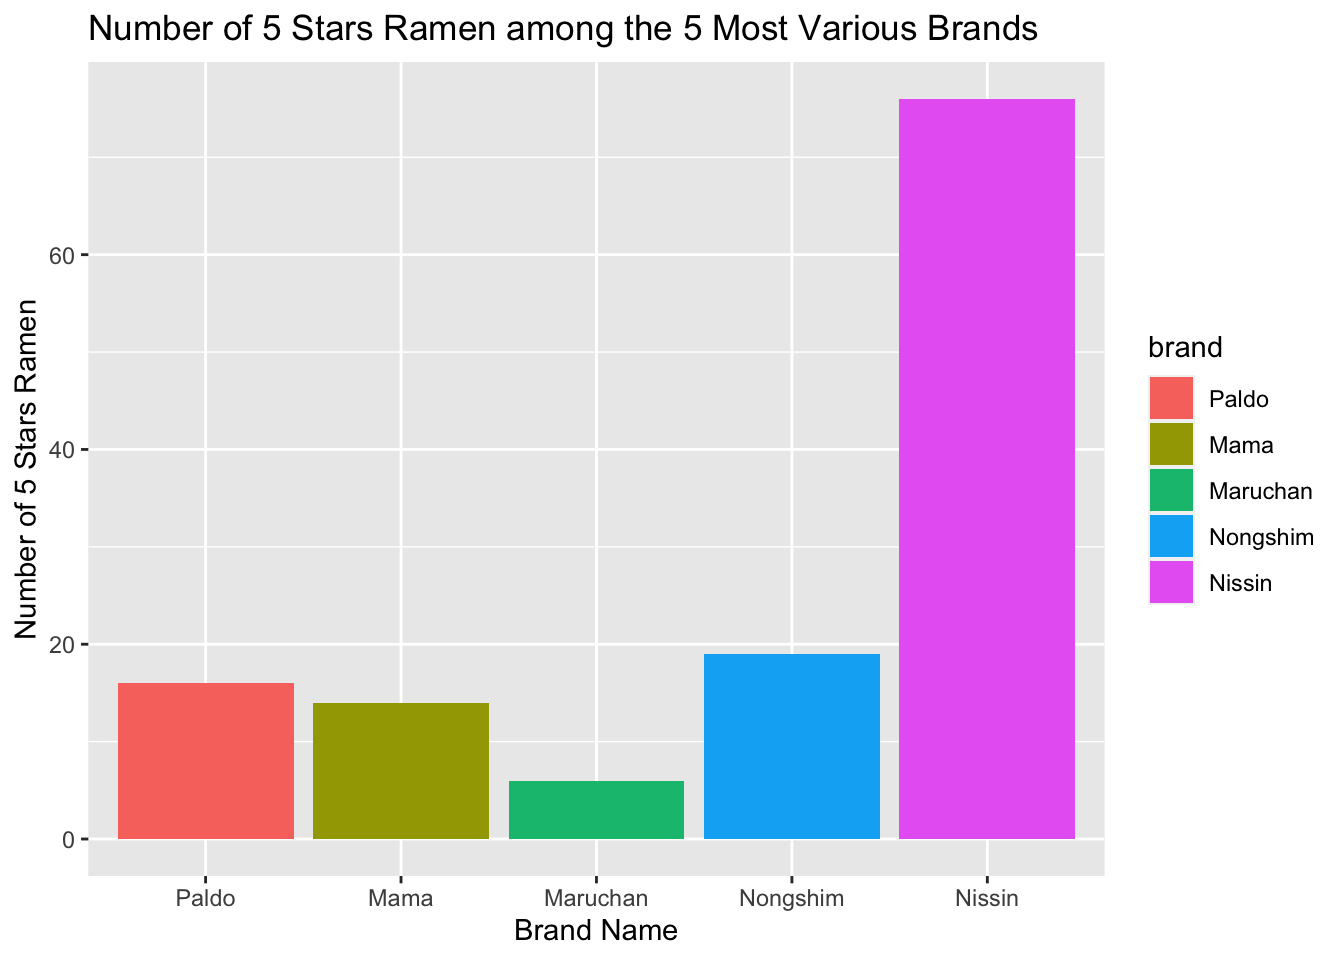
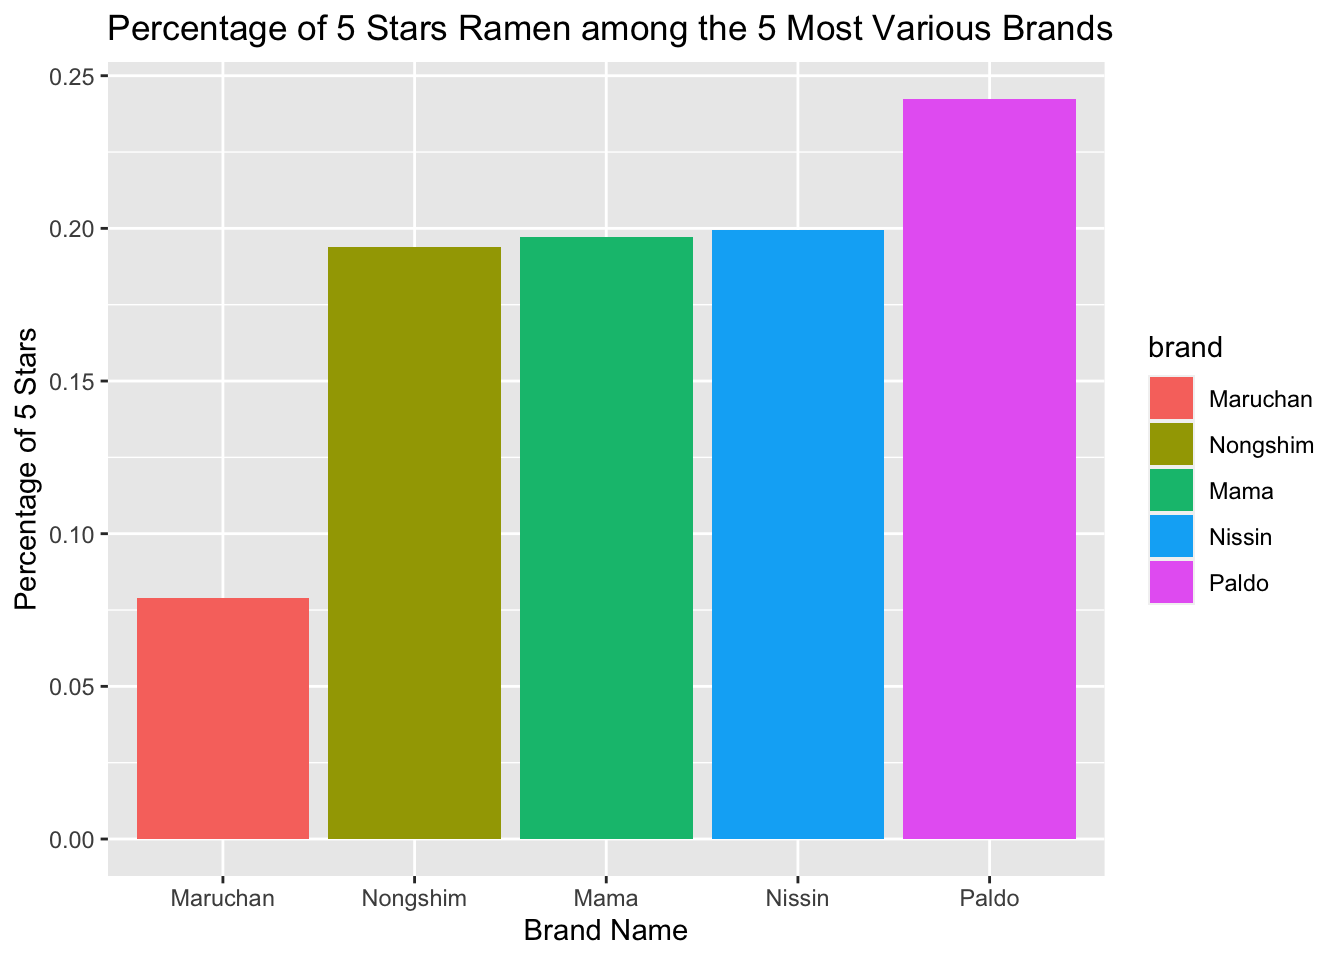
change to percentage plot and add report content into about page.

diff --git a/rating_by_brand.html b/rating_by_brand.html
@@ -403,8 +403,8 @@ div.tocify {
 </div>
 <div id="most-various-brands" class="section level2">
 <h2>5 Most Various Brands</h2>
-<div id="htmlwidget-1bcf06b8619b65fe8e17" style="width:672px;height:480px;" class="plotly html-widget"></div>
-<script type="application/json" data-for="htmlwidget-1bcf06b8619b65fe8e17">{"x":{"visdat":{"2fb56bad06df":["function () ","plotlyVisDat"]},"cur_data":"2fb56bad06df","attrs":{"2fb56bad06df":{"x":{},"y":{},"text":{},"textposition":"auto","marker":{"color":"viridis","line":{"color":"viridis","width":1.5}},"color":{},"alpha_stroke":1,"sizes":[10,100],"spans":[1,20],"type":"bar"}},"layout":{"margin":{"b":40,"l":60,"t":25,"r":10},"title":"5 Ramen Brands with the Widest Varieties","xaxis":{"domain":[0,1],"automargin":true,"title":"Brand Name","type":"category","categoryorder":"array","categoryarray":["Paldo","Mama","Maruchan","Nongshim","Nissin","1 To 3 Noodles","7 Select","7 Select/Nissin","A-One","A-Sha Dry Noodle","A1","ABC","Acecook","Adabi","Ah Lai","Ajinatori","Amianda","Amino","Annie Chun's","Aroi","Asia Gold","Asian Thai Foods","Authentically Asian","Azami","Baijia","Baixiang Noodles","Baltix","Bamee","Batchelors","Binh Tay","Bon Go Jang","Bonasia","Boss","Campbell's","Cap Atoom Bulan","CarJEN","Chaudhary's Wai Wai","Chencun","Chering Chang","Chewy","Chikara","China Best","Ching's Secret","Chorip Dong","ChoripDong","Choumama","Chuan Wei Wang","Cintan","CJ CheilJedang","Conimex","Crystal Noodle","Curry Prince","Daddy","Daifuku","Daikoku","Daraz","Deshome","Doll","Dongwon","Dr. McDougall's","Dragonfly","Dream Kitchen","E-mi","E-Zee","Eat & Go","Econsave","Emart","Fantastic","Farmer's Heart","Fashion Food","Fashion Foods","FMF","Foodmon","Forest Noodles","Fortune","Four Seas","Fu Chang Chinese Noodle Company","Fuji Mengyo","Fujiwara","Fuku","GaGa","Gau Do","Gefen","GGE","Global Inspiration","Goku Uma","Goku-Uma","Golden Mie","Golden Wheat","Golden Wonder","Gomex","Good Tto Leu Foods","Great Value","GreeNoodle","GS25","Guava Story","Haioreum","Han's South Korea","Hankow","Hao Way","Happy Cook","Happy Family","Healtimie","Hi-Myon","Higashi","Higashimaru","HoMyeonDang","Hosoonyi","Hsin Tung Yang","Hua Feng","Hua Feng Noodle Expert","Ibumie","IbuRamen","ICA","Ikeda Shoku","iMee","Indomie","iNoodle","Ishimaru","Itomen","Itsuki","J.J.","Jackpot Teriyaki","JFC","Jingqi","JML","Just Way","Kabuto Noodles","Kailo","Kamfen","Kang Shi Fu","Katoz","Kiki Noodle","Kim Ve Wong","Kim's Bowl","Kimura","Kin-Dee","Knorr","Ko-Lee","Koh Thai","Koka","KOKA","Komforte Chockolates","Koyo","Kumamoto","Kuriki","La Fonte","La Moderna","Lee Fah Mee","Lele","Liang Cheng Mai","Lipton","Lishan","Lishan Food Manufacturing","Little Cook","Liu Quan","Long Jun Hang","Long Kow","Lotus Foods","Love Cook","Lucky Me!","Maggi","Maitri","MAMA","Mama Pat's","Mamee","Marutai","Master Kong","Mee Jang","Men-Sunaoshi","Menraku","Mexi-Ramen","Mi E-Zee","Mi Sedaap","Mie Sedaap","Migawon","Miliket","Miracle Noodle","Mitoku","Mom's Dry Noodle","Morre","Mr. Lee's Noodles","Mr. Noodles","Mr. Udon","Mug Shot","Mum Ngon","MyKuali","Myojo","MyOri","Nagao Noodle","Nagatanien","Nakaya Shouten","Nan Hsing","Nan Jie Cun","Nanyang Chef","New Touch","New Way","No Name","Noah Foods","Noodle Time","Nyor Nyar","O Sung","Ogasawara","Ohsung","Omachi","One Dish Asia","Oni Hot Pot","ORee Garden","Osaka Ramen","Ottogi","Oyatsu","Paldo Vina","Pama","Pamana","Papa","Patanjali","Payless","Peyang","Pirkka","Plats Du Chef","Pop Bihun","Pot Noodle","Pran","Premiere","President","President Rice","Prima","Prima Taste","Pringles","Pulmuone","Q","Qin Zong","Quickchow","Rhee Bros Assi","Right Foods","Ripe'n'Dry","Rocket Brand","Roland","Royal Umbrella","Ruski","S&S","Sahmyook","Saigon Ve Wong","Sainsbury's","Saji","Sakura Noodle","Sakurai","Sakurai Foods","Salam Mie","Samurai Ramen","Samyang","Samyang Foods","Sanpo","Sanrio","Sanyo Foods","Sao Tao","Sapporo Ichiban","Sarimi","Sau Tao","Sawadee","Sempio","Seven & I","Seven-Eleven","Shan","Shirakiku","Sichuan Baijia","Sichuan Guangyou","Singa-Me","Six Fortune","Smack","Snapdragon","Sokensha","Song Hak","Souper","Springlife","Star Anise Foods","Sugakiya Foods","Suimin","Sun Noodle","Sunlee","Sunlight","Sunny Maid","Super","Super Bihun","SuperMi","Sura","Sutah","Tablemark","Takamori","Takamori Kosan","Tao Kae Noi","Tasty Bite","Tayho","Ten-In","Teriyaki Time","Tesco","Thai Chef","Thai Choice","Thai Kitchen","Thai Pavilion","Thai Smile","The Bridge","The Kitchen Food","The Ramen Rater Select","Thien Houng Foods","Tiger","Tiger Tiger","Tokachimen Koubou","Tokushima Seifun","Tokyo Noodle","Torishi","Tradition","TRDP","Trident","Tropicana Slim","Tseng Noodles","TTL","Tung-I","Uncle Sun","Uni-President","Unif","Unif / Tung-I","Unif Tung-I","Unif-100","United","Unox","Unzen","Urban Noodle","US Canning","Ve Wong","Vedan","Vifon","Vina Acecook","Vit's","Wai Wai","Wang","Weh Lih","Wei Chuan","Wei Lih","Wei Wei","Westbrae","Western Family","World O' Noodle","Wu Mu","Wu-Mu","Wugudaochang","Xiao Ban Mian","Xiuhe","Yamachan","Yamadai","Yamamori","Yamamoto","Yum Yum","Yum-Mie","Zow Zow"]},"yaxis":{"domain":[0,1],"automargin":true,"title":"Number of Varieties"},"hovermode":"closest","showlegend":true},"source":"A","config":{"showSendToCloud":false},"data":[{"x":["Paldo"],"y":[66],"text":66,"textposition":"auto","marker":{"color":"viridis","line":{"color":"viridis","width":1.5}},"type":"bar","name":"Paldo","textfont":{"color":"rgba(102,194,165,1)"},"error_y":{"color":"rgba(102,194,165,1)"},"error_x":{"color":"rgba(102,194,165,1)"},"xaxis":"x","yaxis":"y","frame":null},{"x":["Mama"],"y":[71],"text":71,"textposition":"auto","marker":{"color":"viridis","line":{"color":"viridis","width":1.5}},"type":"bar","name":"Mama","textfont":{"color":"rgba(107,193,164,1)"},"error_y":{"color":"rgba(107,193,164,1)"},"error_x":{"color":"rgba(107,193,164,1)"},"xaxis":"x","yaxis":"y","frame":null},{"x":["Maruchan"],"y":[76],"text":76,"textposition":"auto","marker":{"color":"viridis","line":{"color":"viridis","width":1.5}},"type":"bar","name":"Maruchan","textfont":{"color":"rgba(113,192,162,1)"},"error_y":{"color":"rgba(113,192,162,1)"},"error_x":{"color":"rgba(113,192,162,1)"},"xaxis":"x","yaxis":"y","frame":null},{"x":["Nongshim"],"y":[98],"text":98,"textposition":"auto","marker":{"color":"viridis","line":{"color":"viridis","width":1.5}},"type":"bar","name":"Nongshim","textfont":{"color":"rgba(117,192,161,1)"},"error_y":{"color":"rgba(117,192,161,1)"},"error_x":{"color":"rgba(117,192,161,1)"},"xaxis":"x","yaxis":"y","frame":null},{"x":["Nissin"],"y":[381],"text":381,"textposition":"auto","marker":{"color":"viridis","line":{"color":"viridis","width":1.5}},"type":"bar","name":"Nissin","textfont":{"color":"rgba(122,191,160,1)"},"error_y":{"color":"rgba(122,191,160,1)"},"error_x":{"color":"rgba(122,191,160,1)"},"xaxis":"x","yaxis":"y","frame":null}],"highlight":{"on":"plotly_click","persistent":false,"dynamic":false,"selectize":false,"opacityDim":0.2,"selected":{"opacity":1},"debounce":0},"shinyEvents":["plotly_hover","plotly_click","plotly_selected","plotly_relayout","plotly_brushed","plotly_brushing","plotly_clickannotation","plotly_doubleclick","plotly_deselect","plotly_afterplot","plotly_sunburstclick"],"base_url":"https://plot.ly"},"evals":[],"jsHooks":[]}</script>
+<div id="htmlwidget-afdfee05baa4724f611e" style="width:672px;height:480px;" class="plotly html-widget"></div>
+<script type="application/json" data-for="htmlwidget-afdfee05baa4724f611e">{"x":{"visdat":{"12611328e0ecf":["function () ","plotlyVisDat"]},"cur_data":"12611328e0ecf","attrs":{"12611328e0ecf":{"x":{},"y":{},"text":{},"textposition":"auto","marker":{"color":"viridis","line":{"color":"white","width":1.5}},"color":{},"alpha_stroke":1,"sizes":[10,100],"spans":[1,20],"type":"bar"}},"layout":{"margin":{"b":40,"l":60,"t":25,"r":10},"title":"5 Ramen Brands with the Widest Varieties","xaxis":{"domain":[0,1],"automargin":true,"title":"Brand Name","type":"category","categoryorder":"array","categoryarray":["Paldo","Mama","Maruchan","Nongshim","Nissin","1 To 3 Noodles","7 Select","7 Select/Nissin","A-One","A-Sha Dry Noodle","A1","ABC","Acecook","Adabi","Ah Lai","Ajinatori","Amianda","Amino","Annie Chun's","Aroi","Asia Gold","Asian Thai Foods","Authentically Asian","Azami","Baijia","Baixiang Noodles","Baltix","Bamee","Batchelors","Binh Tay","Bon Go Jang","Bonasia","Boss","Campbell's","Cap Atoom Bulan","CarJEN","Chaudhary's Wai Wai","Chencun","Chering Chang","Chewy","Chikara","China Best","Ching's Secret","Chorip Dong","ChoripDong","Choumama","Chuan Wei Wang","Cintan","CJ CheilJedang","Conimex","Crystal Noodle","Curry Prince","Daddy","Daifuku","Daikoku","Daraz","Deshome","Doll","Dongwon","Dr. McDougall's","Dragonfly","Dream Kitchen","E-mi","E-Zee","Eat & Go","Econsave","Emart","Fantastic","Farmer's Heart","Fashion Food","Fashion Foods","FMF","Foodmon","Forest Noodles","Fortune","Four Seas","Fu Chang Chinese Noodle Company","Fuji Mengyo","Fujiwara","Fuku","GaGa","Gau Do","Gefen","GGE","Global Inspiration","Goku Uma","Goku-Uma","Golden Mie","Golden Wheat","Golden Wonder","Gomex","Good Tto Leu Foods","Great Value","GreeNoodle","GS25","Guava Story","Haioreum","Han's South Korea","Hankow","Hao Way","Happy Cook","Happy Family","Healtimie","Hi-Myon","Higashi","Higashimaru","HoMyeonDang","Hosoonyi","Hsin Tung Yang","Hua Feng","Hua Feng Noodle Expert","Ibumie","IbuRamen","ICA","Ikeda Shoku","iMee","Indomie","iNoodle","Ishimaru","Itomen","Itsuki","J.J.","Jackpot Teriyaki","JFC","Jingqi","JML","Just Way","Kabuto Noodles","Kailo","Kamfen","Kang Shi Fu","Katoz","Kiki Noodle","Kim Ve Wong","Kim's Bowl","Kimura","Kin-Dee","Knorr","Ko-Lee","Koh Thai","Koka","KOKA","Komforte Chockolates","Koyo","Kumamoto","Kuriki","La Fonte","La Moderna","Lee Fah Mee","Lele","Liang Cheng Mai","Lipton","Lishan","Lishan Food Manufacturing","Little Cook","Liu Quan","Long Jun Hang","Long Kow","Lotus Foods","Love Cook","Lucky Me!","Maggi","Maitri","MAMA","Mama Pat's","Mamee","Marutai","Master Kong","Mee Jang","Men-Sunaoshi","Menraku","Mexi-Ramen","Mi E-Zee","Mi Sedaap","Mie Sedaap","Migawon","Miliket","Miracle Noodle","Mitoku","Mom's Dry Noodle","Morre","Mr. Lee's Noodles","Mr. Noodles","Mr. Udon","Mug Shot","Mum Ngon","MyKuali","Myojo","MyOri","Nagao Noodle","Nagatanien","Nakaya Shouten","Nan Hsing","Nan Jie Cun","Nanyang Chef","New Touch","New Way","No Name","Noah Foods","Noodle Time","Nyor Nyar","O Sung","Ogasawara","Ohsung","Omachi","One Dish Asia","Oni Hot Pot","ORee Garden","Osaka Ramen","Ottogi","Oyatsu","Paldo Vina","Pama","Pamana","Papa","Patanjali","Payless","Peyang","Pirkka","Plats Du Chef","Pop Bihun","Pot Noodle","Pran","Premiere","President","President Rice","Prima","Prima Taste","Pringles","Pulmuone","Q","Qin Zong","Quickchow","Rhee Bros Assi","Right Foods","Ripe'n'Dry","Rocket Brand","Roland","Royal Umbrella","Ruski","S&S","Sahmyook","Saigon Ve Wong","Sainsbury's","Saji","Sakura Noodle","Sakurai","Sakurai Foods","Salam Mie","Samurai Ramen","Samyang","Samyang Foods","Sanpo","Sanrio","Sanyo Foods","Sao Tao","Sapporo Ichiban","Sarimi","Sau Tao","Sawadee","Sempio","Seven & I","Seven-Eleven","Shan","Shirakiku","Sichuan Baijia","Sichuan Guangyou","Singa-Me","Six Fortune","Smack","Snapdragon","Sokensha","Song Hak","Souper","Springlife","Star Anise Foods","Sugakiya Foods","Suimin","Sun Noodle","Sunlee","Sunlight","Sunny Maid","Super","Super Bihun","SuperMi","Sura","Sutah","Tablemark","Takamori","Takamori Kosan","Tao Kae Noi","Tasty Bite","Tayho","Ten-In","Teriyaki Time","Tesco","Thai Chef","Thai Choice","Thai Kitchen","Thai Pavilion","Thai Smile","The Bridge","The Kitchen Food","The Ramen Rater Select","Thien Houng Foods","Tiger","Tiger Tiger","Tokachimen Koubou","Tokushima Seifun","Tokyo Noodle","Torishi","Tradition","TRDP","Trident","Tropicana Slim","Tseng Noodles","TTL","Tung-I","Uncle Sun","Uni-President","Unif","Unif / Tung-I","Unif Tung-I","Unif-100","United","Unox","Unzen","Urban Noodle","US Canning","Ve Wong","Vedan","Vifon","Vina Acecook","Vit's","Wai Wai","Wang","Weh Lih","Wei Chuan","Wei Lih","Wei Wei","Westbrae","Western Family","World O' Noodle","Wu Mu","Wu-Mu","Wugudaochang","Xiao Ban Mian","Xiuhe","Yamachan","Yamadai","Yamamori","Yamamoto","Yum Yum","Yum-Mie","Zow Zow"]},"yaxis":{"domain":[0,1],"automargin":true,"title":"Number of Varieties"},"hovermode":"closest","showlegend":true},"source":"A","config":{"showSendToCloud":false},"data":[{"x":["Paldo"],"y":[66],"text":66,"textposition":"auto","marker":{"color":"viridis","line":{"color":"white","width":1.5}},"type":"bar","name":"Paldo","textfont":{"color":"rgba(102,194,165,1)"},"error_y":{"color":"rgba(102,194,165,1)"},"error_x":{"color":"rgba(102,194,165,1)"},"xaxis":"x","yaxis":"y","frame":null},{"x":["Mama"],"y":[71],"text":71,"textposition":"auto","marker":{"color":"viridis","line":{"color":"white","width":1.5}},"type":"bar","name":"Mama","textfont":{"color":"rgba(107,193,164,1)"},"error_y":{"color":"rgba(107,193,164,1)"},"error_x":{"color":"rgba(107,193,164,1)"},"xaxis":"x","yaxis":"y","frame":null},{"x":["Maruchan"],"y":[76],"text":76,"textposition":"auto","marker":{"color":"viridis","line":{"color":"white","width":1.5}},"type":"bar","name":"Maruchan","textfont":{"color":"rgba(113,192,162,1)"},"error_y":{"color":"rgba(113,192,162,1)"},"error_x":{"color":"rgba(113,192,162,1)"},"xaxis":"x","yaxis":"y","frame":null},{"x":["Nongshim"],"y":[98],"text":98,"textposition":"auto","marker":{"color":"viridis","line":{"color":"white","width":1.5}},"type":"bar","name":"Nongshim","textfont":{"color":"rgba(117,192,161,1)"},"error_y":{"color":"rgba(117,192,161,1)"},"error_x":{"color":"rgba(117,192,161,1)"},"xaxis":"x","yaxis":"y","frame":null},{"x":["Nissin"],"y":[381],"text":381,"textposition":"auto","marker":{"color":"viridis","line":{"color":"white","width":1.5}},"type":"bar","name":"Nissin","textfont":{"color":"rgba(122,191,160,1)"},"error_y":{"color":"rgba(122,191,160,1)"},"error_x":{"color":"rgba(122,191,160,1)"},"xaxis":"x","yaxis":"y","frame":null}],"highlight":{"on":"plotly_click","persistent":false,"dynamic":false,"selectize":false,"opacityDim":0.2,"selected":{"opacity":1},"debounce":0},"shinyEvents":["plotly_hover","plotly_click","plotly_selected","plotly_relayout","plotly_brushed","plotly_brushing","plotly_clickannotation","plotly_doubleclick","plotly_deselect","plotly_afterplot","plotly_sunburstclick"],"base_url":"https://plot.ly"},"evals":[],"jsHooks":[]}</script>
 <p>As shown in the above plot, <em>Nissin</em> is the winner with 381 types of ramen. The 2nd to 5th brands are <em>Nongshim</em>, <em>Maruchan</em>, <em>Mama</em>, and <em>Paldo</em>. Each of them has more than 60 but less than 100 types of ramen.</p>
 <div id="distribution-of-rating-stars" class="section level3">
 <h3>Distribution of Rating Stars</h3>
@@ -412,8 +412,12 @@ div.tocify {
 <p>The above boxplots show that the median rating stars of <em>Nissin</em>, <em>Nongshim</em>, and <em>Paldo</em> are close to <code>4 stars</code>. The median of <em>Mama</em> and <em>Maruchan</em> are lower than <code>4 stars</code>. 75% of products of these 5 brands were rated above or equal to <code>3 Stars</code>.</p>
 <p>Only <em>Paldo</em> and <em>Maruchan</em> have some ramen products were rated as <code>0 Stars</code>.</p>
 <p><img src="rating_by_brand_files/figure-html/unnamed-chunk-4-1.png" width="672" /></p>
-<p>All of these 5 brands have at least one ramen was rated as <code>5 Stars</code>. <em>Nissin</em> also has the largest number of ramen rated as <em>5 Stars</em>.</p>
+<p>All of these 5 brands have at least one ramen was rated as <code>5 Stars</code>. <em>Paldo</em> has the highest percentage of ramen rated as <code>5 Stars</code>, while <em>Maruchan</em> has the lowest percentage of ramen rated as <code>5 Stars</code>.</p>
 </div>
+</div>
+<div id="conclusion" class="section level2">
+<h2>Conclusion</h2>
+<p>There are 355 ramen brands in this dataset. <em>Nissin</em>, <em>Nongshim</em>, <em>Maruchan</em>, <em>Mama</em>, and <em>Paldo</em> are the 5 brands the largest number of varieties. The median of these 5 brands are higher than <code>3 Stars</code>. <em>Paldo</em> has the highest percentage of ramen rated as <code>5 Stars</code>.</p>
 </div>
 
 
